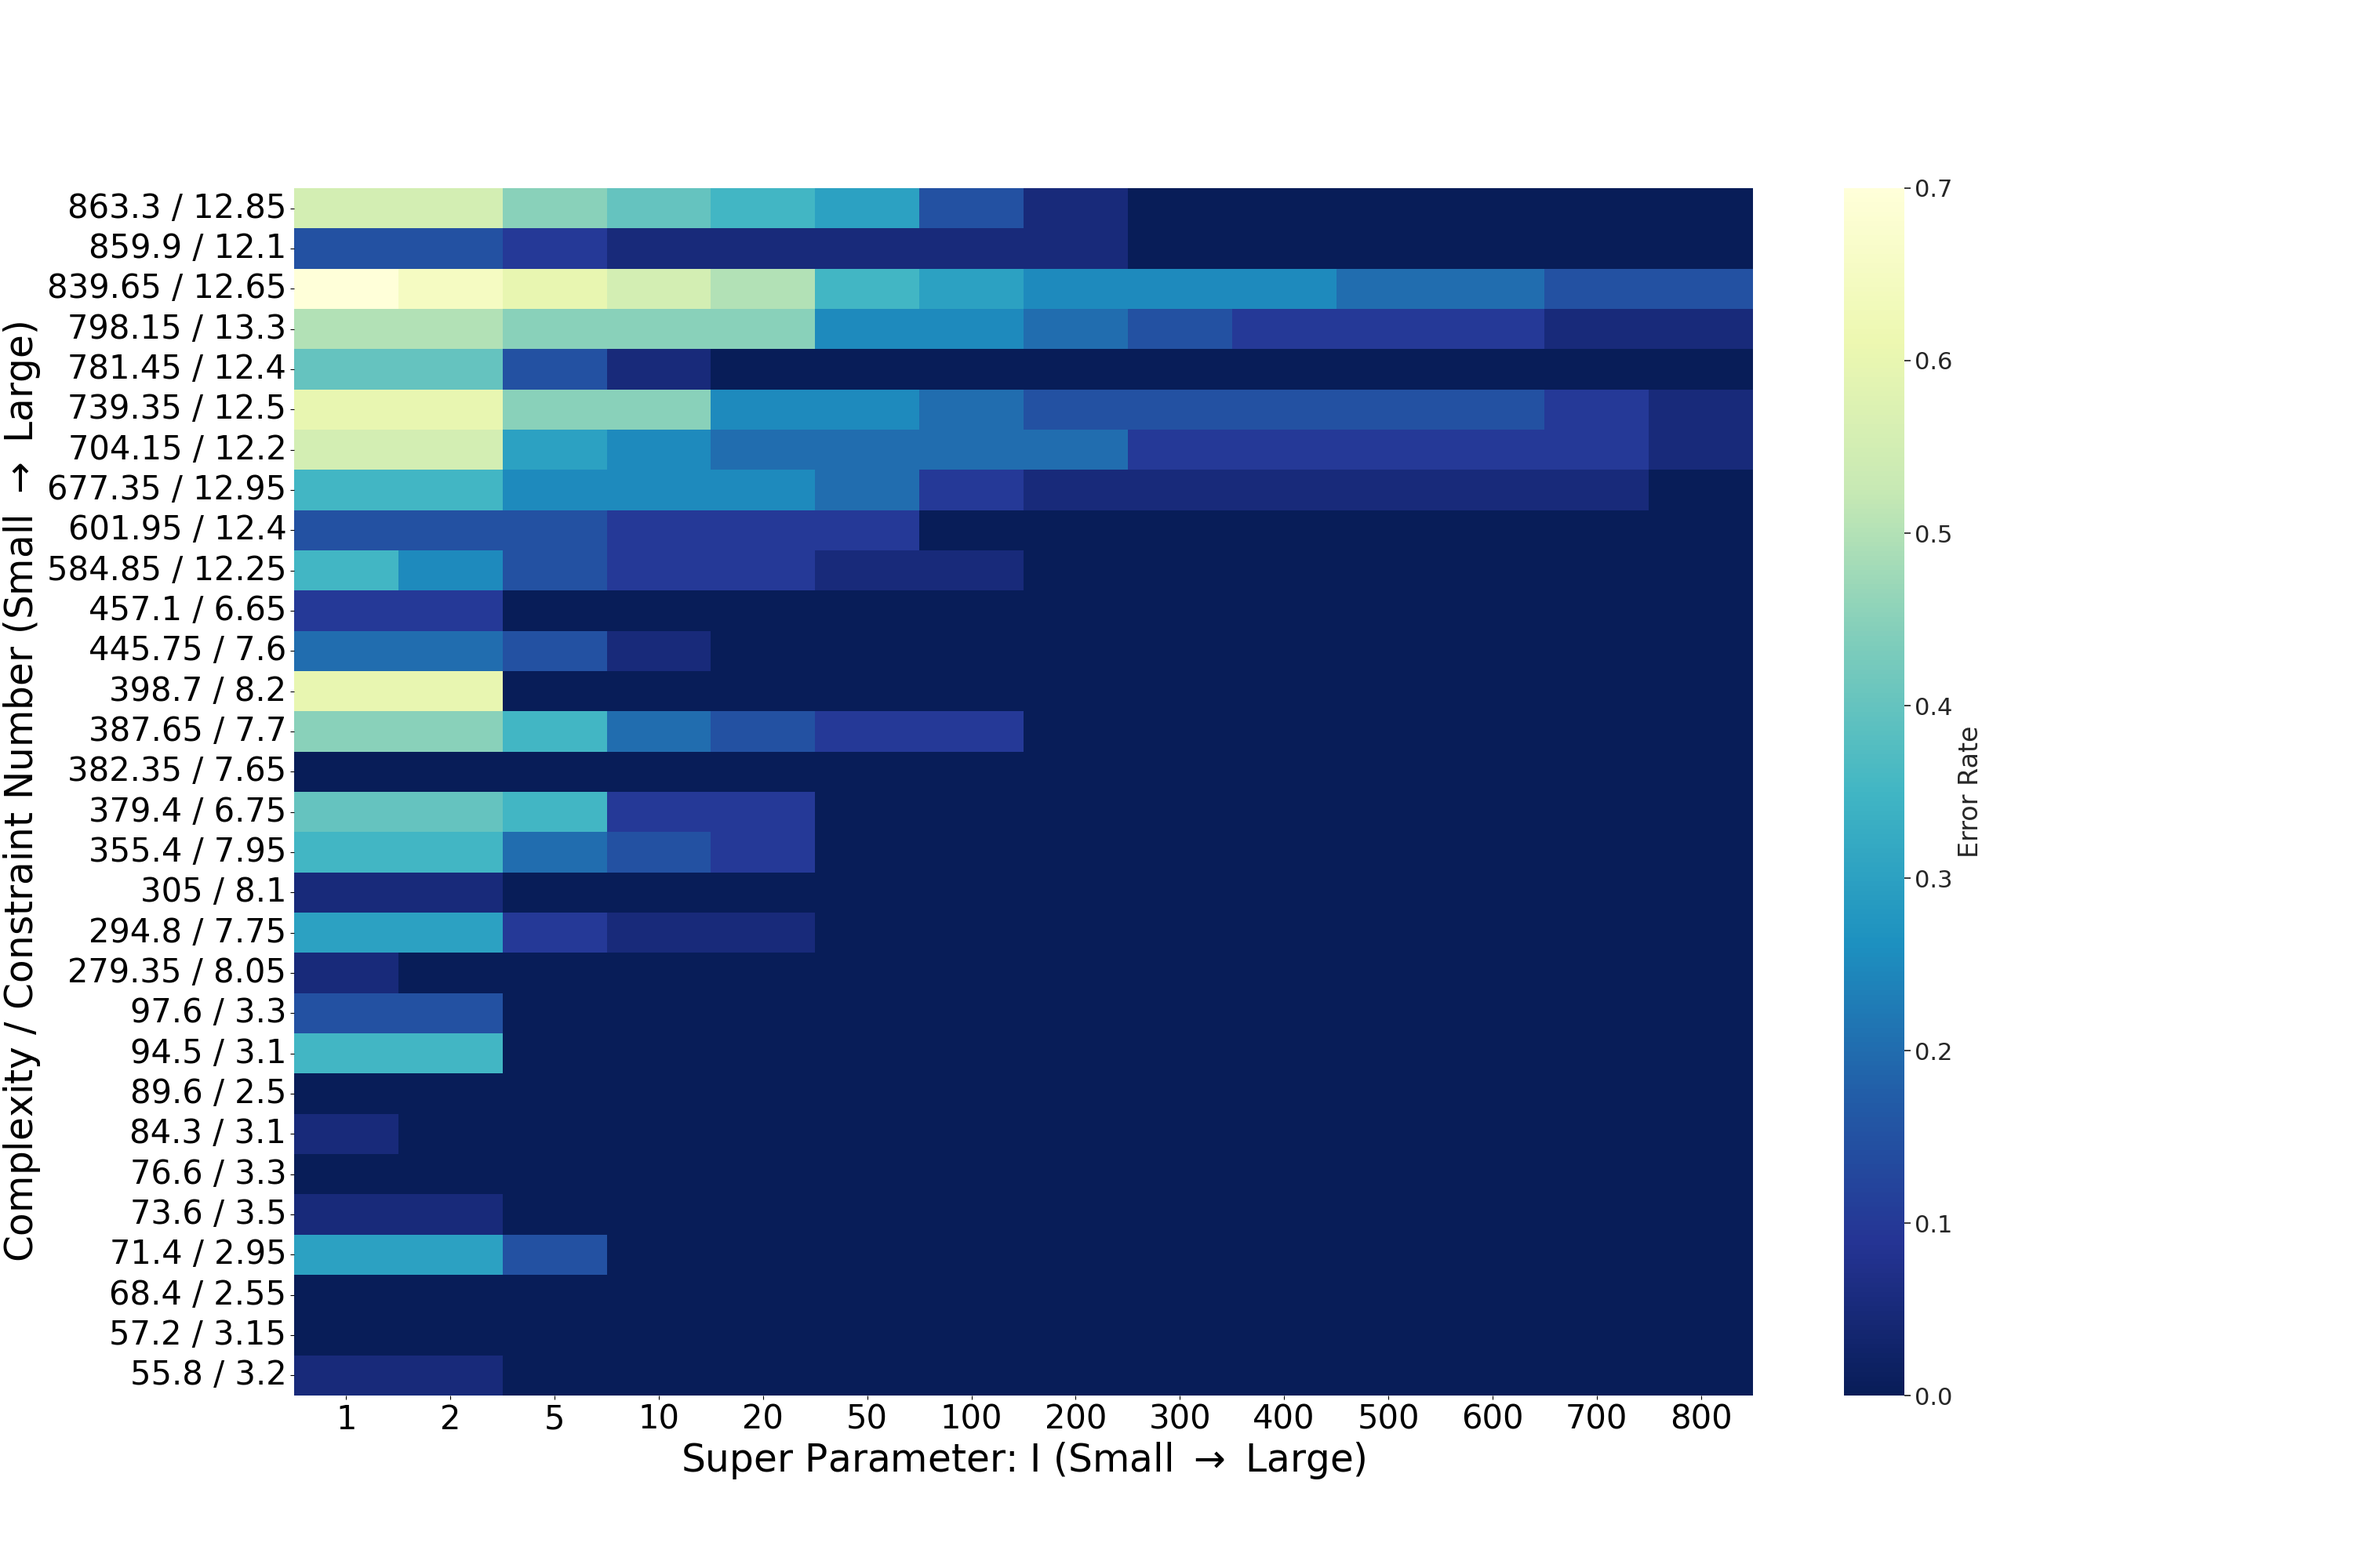
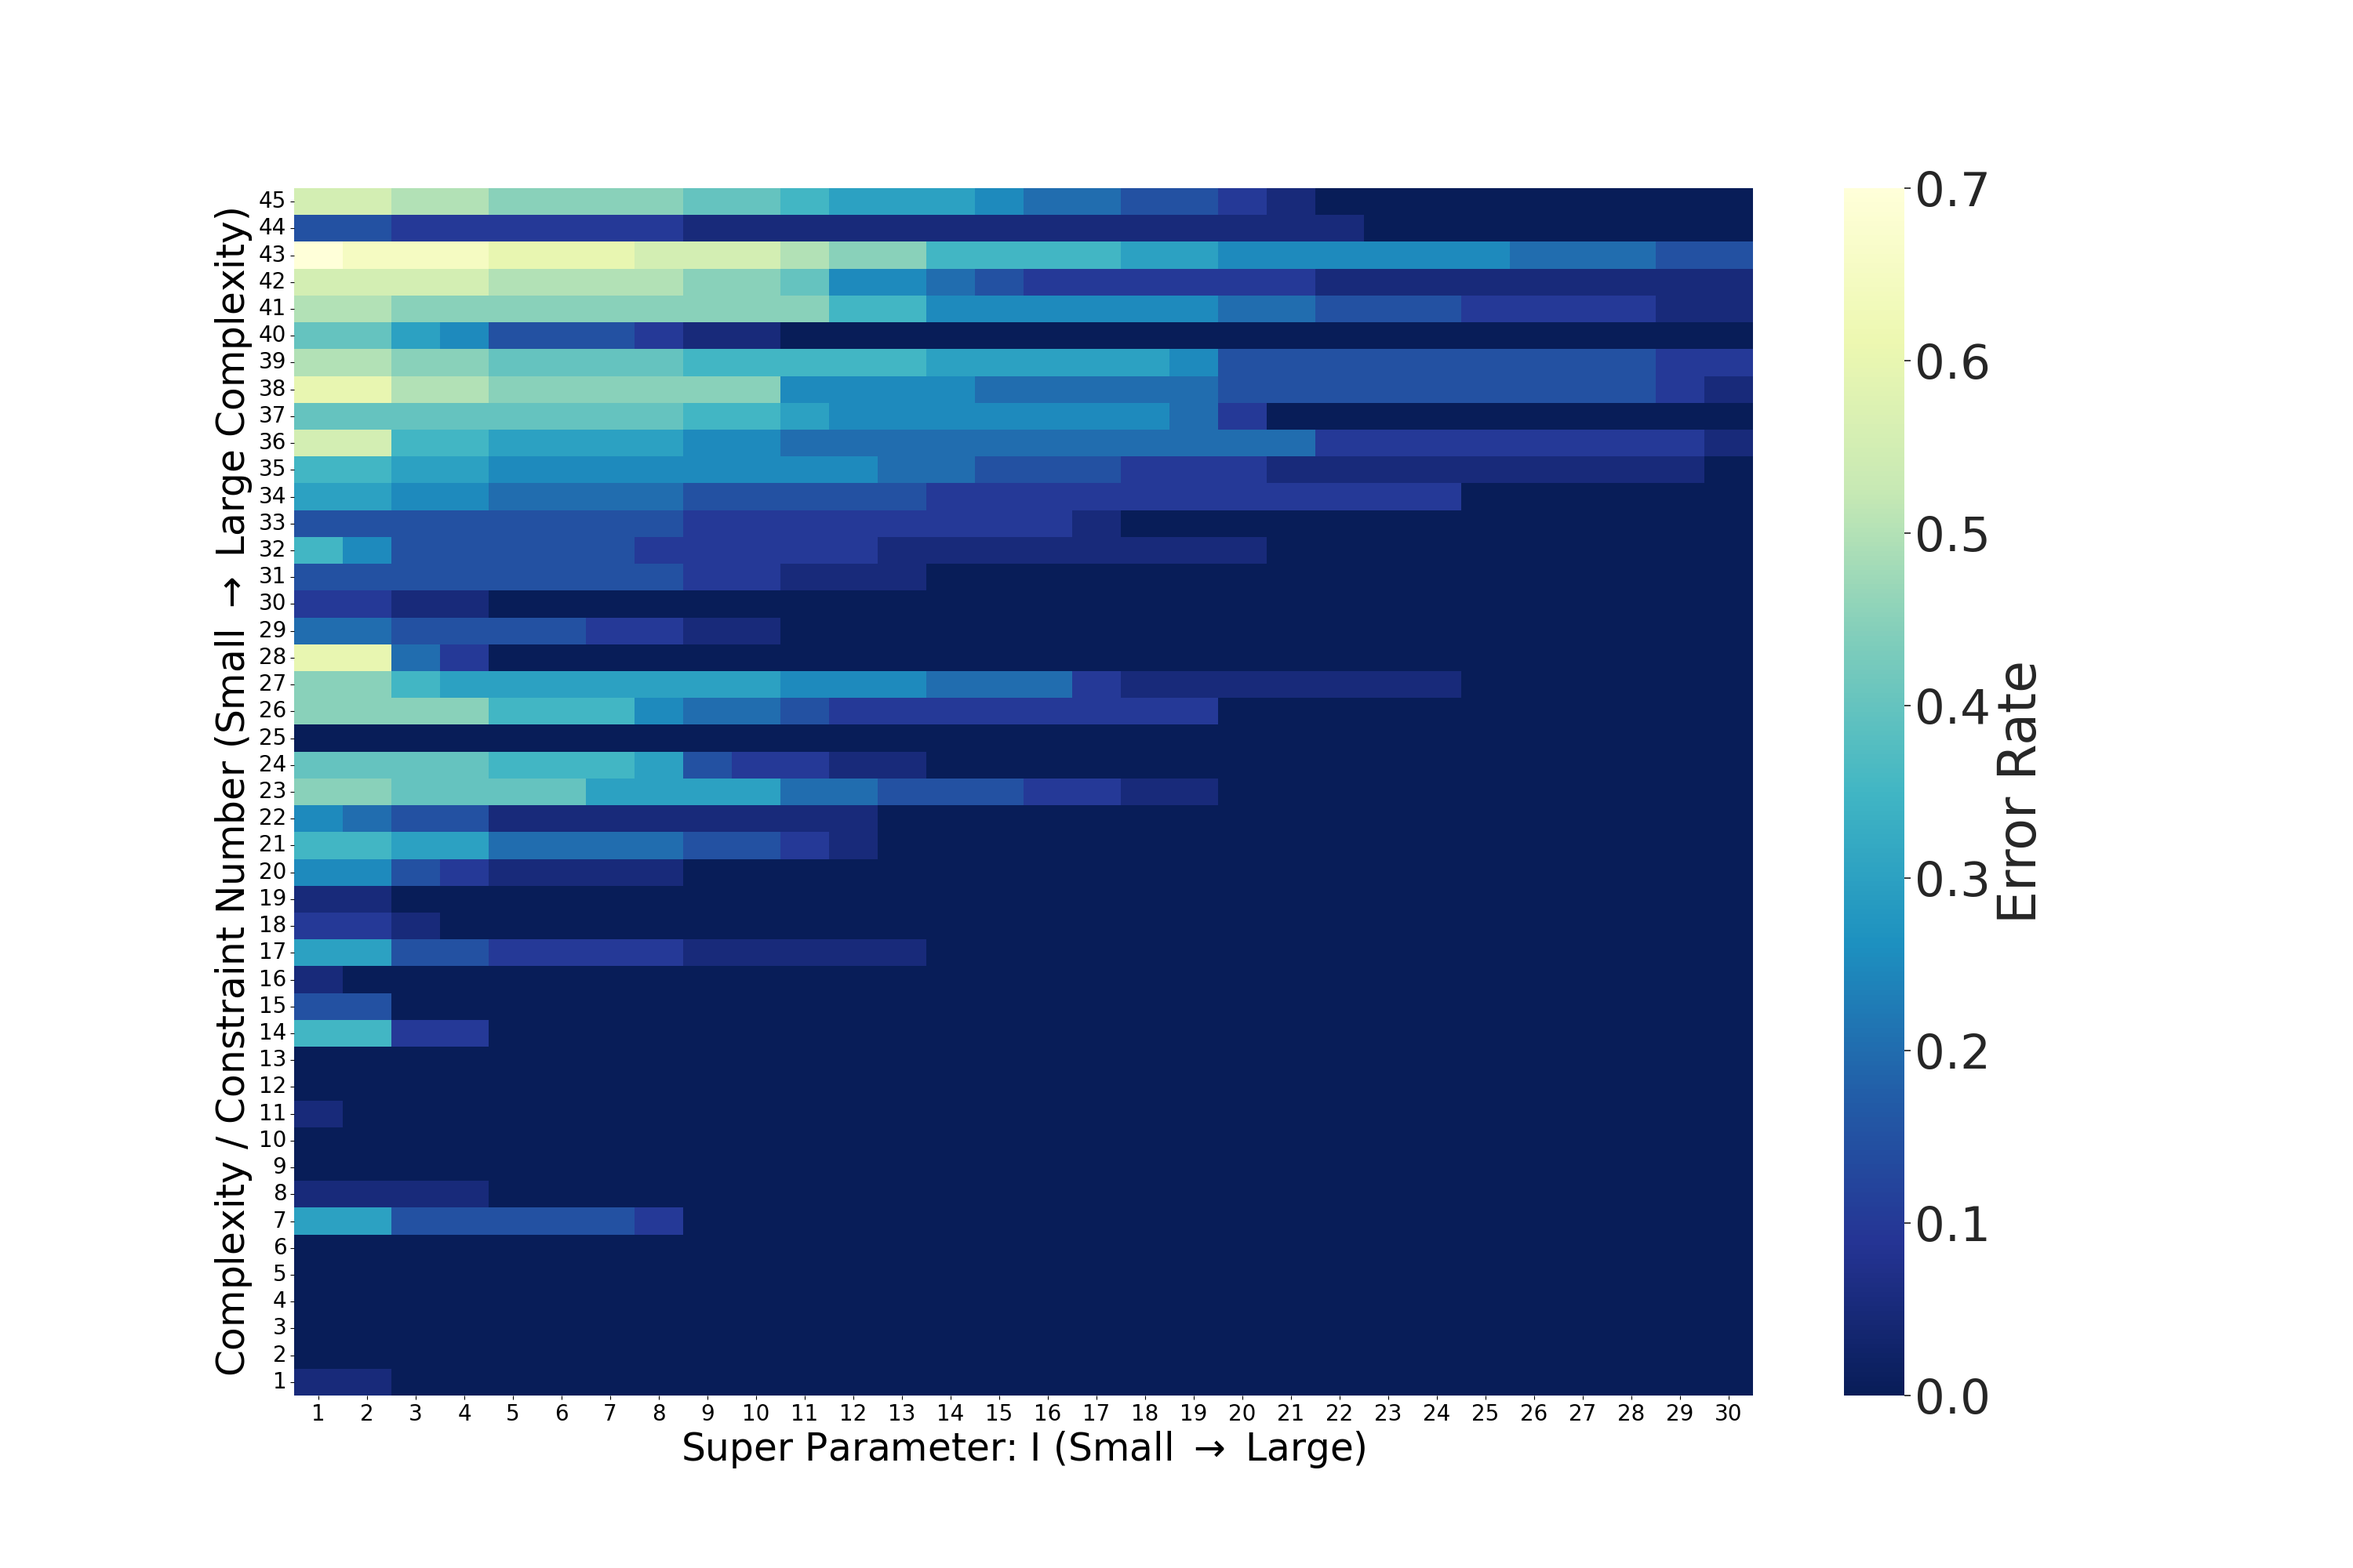
lrb5 test and checker modified

diff --git a/HeatMapDrawer.py b/HeatMapDrawer.py
@@ -34,15 +34,16 @@ df = pd.read_csv(path1, index_col=0)
 
 df = df.iloc[::-1]
 f, ax = plt.subplots(figsize=(30, 20))
-sns.set(font_scale=2)
+sns.set(font_scale=4)
 ax = sns.heatmap(df, cmap="YlGnBu_r", cbar_kws={'label': 'Error Rate'})
 # ax = sns.heatmap(df, cmap="YlGnBu_r", vmax=1000, cbar_kws={'label': 'Avg. Run Time'})
 # ax.set_title('Heatmap of the error rate between Complexity / Constraint Number and Super Parameter I', fontsize=20)
 
-ax.set_xticklabels(ax.get_xmajorticklabels(), fontsize=30)
-ax.set_yticklabels(ax.get_ymajorticklabels(), fontsize=30)
+ax.set_xticklabels(ax.get_xmajorticklabels(), fontsize=20)
+ax.set_yticklabels(ax.get_ymajorticklabels(), fontsize=20)
 ax.set_xlabel('Super Parameter: I (Small $\\rightarrow$ Large)', fontsize=35)
-ax.set_ylabel('Complexity / Constraint Number (Small $\\rightarrow$ Large)', fontsize=35)
+ax.set_ylabel('Complexity / Constraint Number (Small $\\rightarrow$ Large Complexity)', fontsize=35)
+plt.yticks(rotation=0)
 # plt.show()
 # ax.set(xlabel='Super Parameter: I', ylabel='Avg. Constraint Number')
 outputpath1 = f"TestCaseFiles/DataCollector/heatmap_erC.png"

diff --git a/find_I_Best.py b/find_I_Best.py
@@ -1,0 +1,32 @@
+import os
+from statistics import mean
+import numpy as np
+import pandas as pd
+import matplotlib.pyplot as plt
+from sklearn import preprocessing
+
+ranges = [1,2,3,4,5,6,7,8,9,10,20,30,40,50,60,70,80,90,100,150,200,250,300,350,400,450,500,600,700,800]
+pp = []
+path = f"TestCaseFiles/DataCollector/heatmapdata.csv"
+df = pd.read_csv(path, header=0, index_col=0)
+df_c = df.values
+p_min_indeces = []
+for c in df_c:
+    p = []
+    for cc in c[:30]:
+        p.append(cc)
+    p_min = min(p)
+    p_min_index = p.index(p_min)
+    p_min_indeces.append(p_min_index)
+    if p_min_index > 9:
+        pp.append([ranges[p_min_index-1], ranges[p_min_index]])
+    else:
+        pp.append(ranges[p_min_index])
+print(p_min_indeces)
+print(pp)
+folder_path = f"TestCaseFiles/DataCollector"
+outpath = f"{folder_path}/I_best.csv"
+with open(outpath, 'w') as f:
+    for ii in pp:
+        f.writelines(f"{ii}\n")
+

diff --git a/calclateConstraitNumber.py b/calclateConstraitNumber.py
@@ -6,7 +6,7 @@ import pandas as pd
 # average constraint numbers of four benchmark sections
 pp = []
 # average every 10 constraints numbers and add the avg number into one list p_10
-p_10 = []
+p_20 = []
 for i in range(1, 4):
     # path = f"TestCaseFiles/lrb/URC/Constraint_UR_lrb{i}.csv"
     path = f"RandomCaseFiles/Constraint_b{i}.csv"
@@ -24,12 +24,12 @@ for i in range(1, 4):
         count += 1
         a.append(pi)
         if count == 20:
-            p_10.append(mean(a))
+            p_20.append(mean(a))
             a = []
             count = 0
     pp.append(round(mean(p), 2))
     print(p)
-print(p_10)
+print(p_20)
 folder_path = f"RandomCaseFiles/"
 outpath = f"{folder_path}/ConstraintInfo.csv"
 if not os.path.exists(folder_path):

diff --git a/TestAlgorithm.py b/TestAlgorithm.py
@@ -61,7 +61,7 @@ if __name__ == '__main__':
                           "Netx Shortest Path (Dijkstra) path", "A* path", "VeSpA 1 path", "VeSpA 100 path", "VeSpA INF path",
                           "Netx Shortest Path (Dijkstra) path length", "A* path length", "VeSpA 1 path length", "VeSpA 100 path length",
                           "VeSpA INF path length", "Netx Shortest Path (Dijkstra) runtime", "A* runtime", "VeSpA 1 runtime", "VeSpA 100 runtime",
-                          "VeSpA INF runtime", "Best I"]
+                          "VeSpA INF runtime", "MIN I"]
     Result_list_cases = []
     for i in range(1, 2):
         Result_list_section = []
